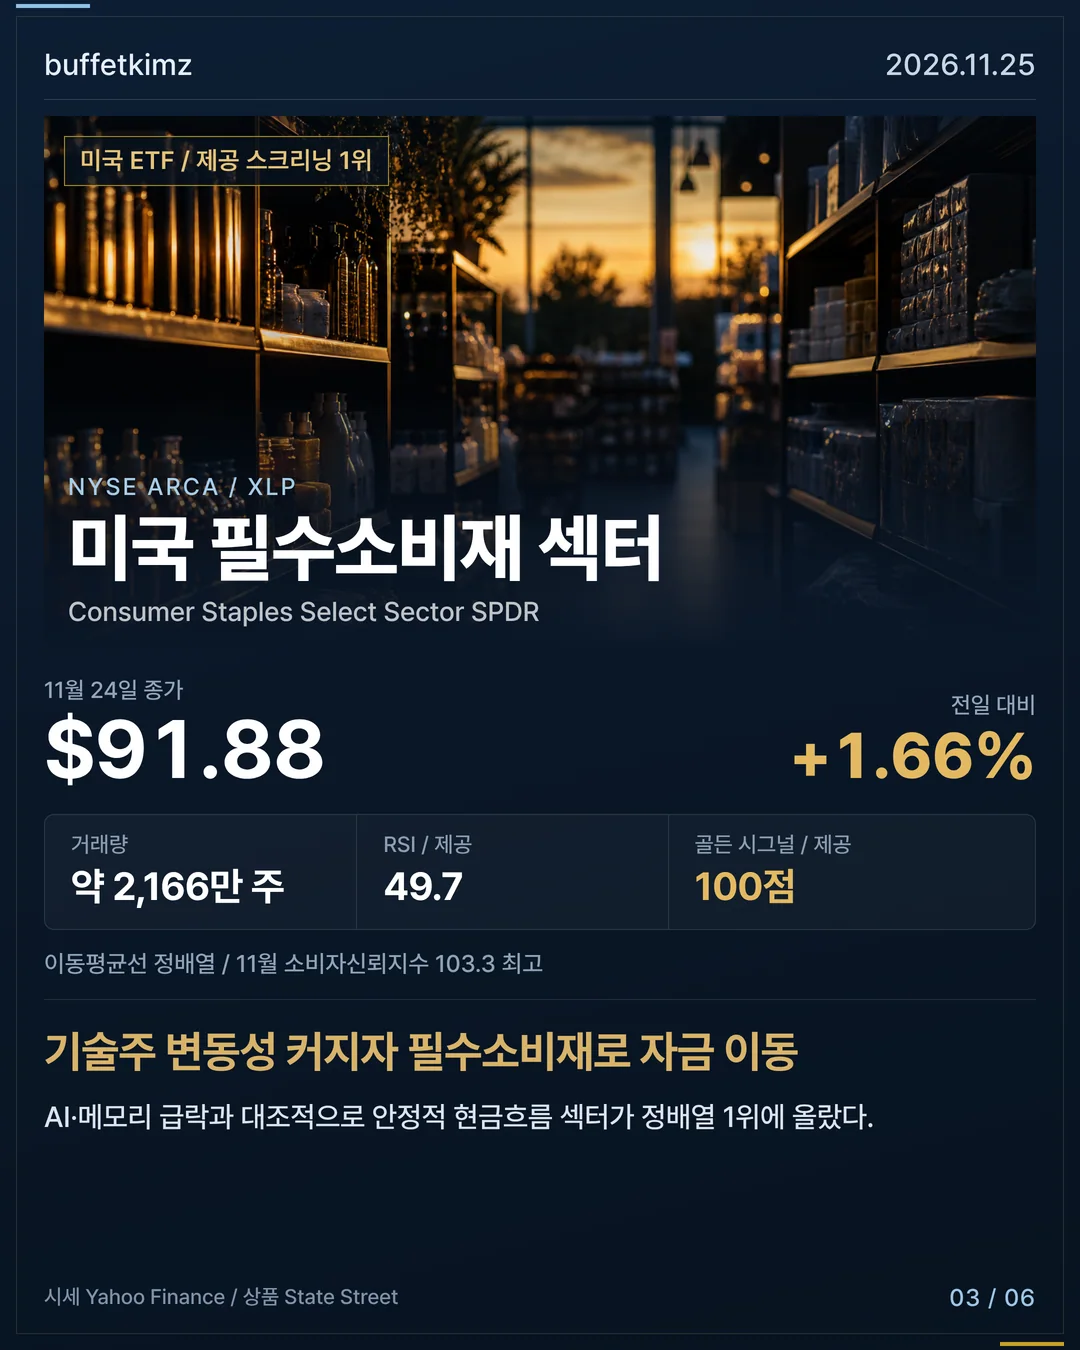
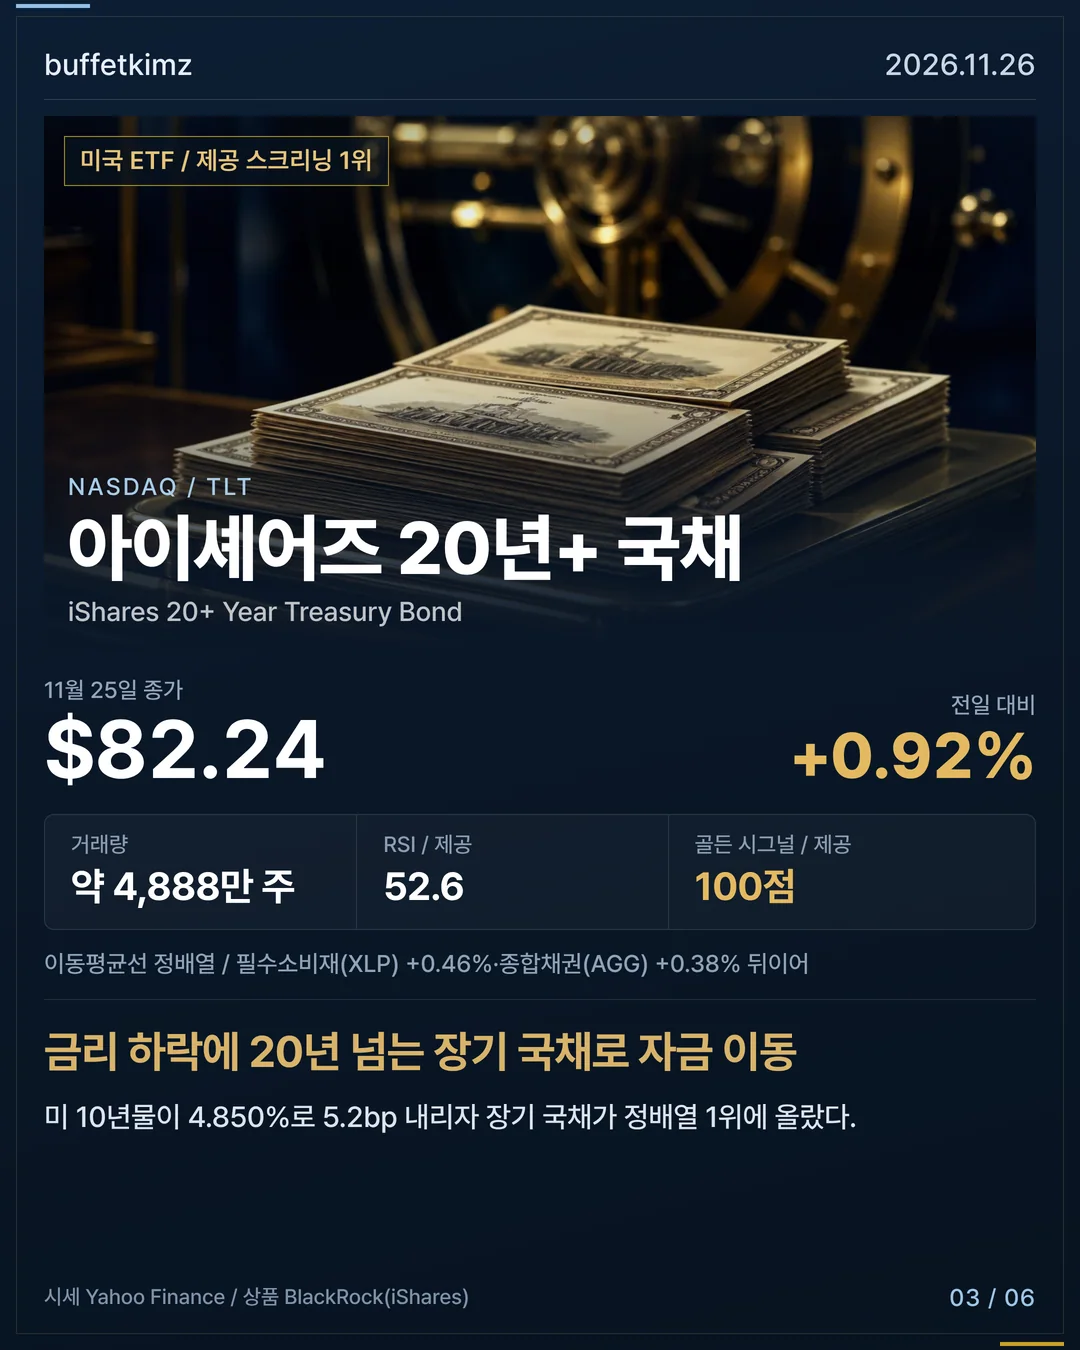
feat(gallery): 4대 시장 퀀트 스크리닝 카드뉴스 갱신 (11/26)

diff --git a/src/data/gallery.ts b/src/data/gallery.ts
@@ -106,23 +106,23 @@ export const galleryItems: GalleryItem[] = [
   /* quant-screening-daily:BEGIN — render_quant_cards.mjs --gallery가 매일 이 블록만 새로 씁니다 */
   {
     id: "quant-screening-daily",
-    title: "4대 시장 퀀트 스크리닝 (11/25)",
+    title: "4대 시장 퀀트 스크리닝 (11/26)",
     tagline: "골든 시그널로 본 4종목",
     summary:
-      "미국 주식·미국 ETF·국내 주식·국내 ETF 네 시장을 같은 기준(이동평균선 정배열·RSI·거래량)으로 훑은 2026. 11. 25 기준 결과입니다. 시장별 1위 4종목과 개장 전 체크포인트 3가지를 6장에 담았습니다.",
+      "미국 주식·미국 ETF·국내 주식·국내 ETF 네 시장을 같은 기준(이동평균선 정배열·RSI·거래량)으로 훑은 2026. 11. 26 기준 결과입니다. 시장별 1위 4종목과 개장 전 체크포인트 3가지를 6장에 담았습니다.",
     category: "cardnews",
-    createdAt: "2026-11-25",
+    createdAt: "2026-11-26",
     tags: ["퀀트 스크리닝", "골든 시그널", "미국 주식", "국내 주식", "ETF"],
     slides: [
-      { src: "/gallery/quant-screening-daily/01.webp", width: 1080, height: 1350, alt: "표지 — 4대 시장 퀀트 스크리닝, 미국 주식 CMCSA·미국 ETF XLP·국내 주식 하나금융지주·국내 ETF KODEX 은행", caption: "표지 — 골든 시그널로 본 4종목" },
-      { src: "/gallery/quant-screening-daily/02.webp", width: 1080, height: 1350, alt: "미국 주식 / 제공 스크리닝 1위 — 컴캐스트 $25.38 (+2.67%), 거래량 약 2,675만 주, RSI / 제공 56.7, 골든 시그널 / 제공 100점", caption: "미국 주식 1위 — 컴캐스트 $25.38 (+2.67%)" },
-      { src: "/gallery/quant-screening-daily/03.webp", width: 1080, height: 1350, alt: "미국 ETF / 제공 스크리닝 1위 — 미국 필수소비재 섹터 $91.88 (+1.66%), 거래량 약 2,166만 주, RSI / 제공 49.7, 골든 시그널 / 제공 100점", caption: "미국 ETF 1위 — 미국 필수소비재 섹터 $91.88 (+1.66%)" },
-      { src: "/gallery/quant-screening-daily/04.webp", width: 1080, height: 1350, alt: "국내 주식 / 제공 스크리닝 1위 — 하나금융지주 123,100원 (+4.94%), 거래량 약 67.8만 주, RSI / 제공 58.7, 골든 시그널 / 제공 100점", caption: "국내 주식 1위 — 하나금융지주 123,100원 (+4.94%)" },
-      { src: "/gallery/quant-screening-daily/05.webp", width: 1080, height: 1350, alt: "국내 ETF / 제공 스크리닝 1위 — KODEX 은행 14,420원 (+3.93%), 거래량 약 29.8만 주, RSI / 제공 55.4, 골든 시그널 / 제공 100점", caption: "국내 ETF 1위 — KODEX 은행 14,420원 (+3.93%)" },
-      { src: "/gallery/quant-screening-daily/06.webp", width: 1080, height: 1350, alt: "개장 전, 세 가지 체크포인트 — 미국장 다우 +0.85% / 나스닥 -1.48% / SOX -7.88%, 개장 전 시그널 코스피200 야간선물 742.60 (-4.56%), 환율·대외 변수 역외 원/달러 약 1,340.9원 / MSCI 한국 -3.7%", caption: "마무리 — 개장 전 체크포인트 3" },
+      { src: "/gallery/quant-screening-daily/01.webp", width: 1080, height: 1350, alt: "표지 — 4대 시장 퀀트 스크리닝, 미국 주식 홈디포·미국 ETF TLT·국내 주식 유한양행·국내 ETF KODEX 인버스2X", caption: "표지 — 골든 시그널로 본 4종목" },
+      { src: "/gallery/quant-screening-daily/02.webp", width: 1080, height: 1350, alt: "미국 주식 / 제공 스크리닝 1위 — 홈디포 $361.26 (+2.14%), 거래량 약 667만 주, RSI / 제공 59.6, 골든 시그널 / 제공 100점", caption: "미국 주식 1위 — 홈디포 $361.26 (+2.14%)" },
+      { src: "/gallery/quant-screening-daily/03.webp", width: 1080, height: 1350, alt: "미국 ETF / 제공 스크리닝 1위 — 아이셰어즈 20년+ 국채 $82.24 (+0.92%), 거래량 약 4,888만 주, RSI / 제공 52.6, 골든 시그널 / 제공 100점", caption: "미국 ETF 1위 — 아이셰어즈 20년+ 국채 $82.24 (+0.92%)" },
+      { src: "/gallery/quant-screening-daily/04.webp", width: 1080, height: 1350, alt: "국내 주식 / 제공 스크리닝 1위 — 유한양행 83,500원 (+8.02%), 거래량 약 36.8만 주, RSI / 제공 51.6, 골든 시그널 / 제공 100점", caption: "국내 주식 1위 — 유한양행 83,500원 (+8.02%)" },
+      { src: "/gallery/quant-screening-daily/05.webp", width: 1080, height: 1350, alt: "국내 ETF / 제공 스크리닝 1위 — KODEX 200선물인버스2X 138원 (+14.05%), 거래량 약 78.1억 주, RSI / 제공 61.0, 골든 시그널 / 제공 100점", caption: "국내 ETF 1위 — KODEX 200선물인버스2X 138원 (+14.05%)" },
+      { src: "/gallery/quant-screening-daily/06.webp", width: 1080, height: 1350, alt: "개장 전, 세 가지 체크포인트 — 미국장 S&P500 7,182.73 (-0.25%) / 나스닥 -0.64% / 다우 +0.31%, 개장 전 시그널 NXT 프리마켓 삼성전자 +1.23% / SK하이닉스 +2.43%, 환율·제도 원/달러 1,343.40원 / 오늘 10시 한은 금통위", caption: "마무리 — 개장 전 체크포인트 3" },
     ],
     basis:
-      "기준 2026. 11. 25 08:20 · 시세 Yahoo Finance·KRX / 지수 S&P·Nasdaq / 환율 08:20 기준 · 투자 권유가 아닌 기록입니다",
+      "기준 2026. 11. 26 08:20 · 시세 Yahoo Finance·KRX / 지수 S&P·Nasdaq / 환율 08:20 기준 · 투자 권유가 아닌 기록입니다",
     related: [{ label: "오늘의 시장 확인 — 데일리 브리프", href: "/board/" }],
   },
   /* quant-screening-daily:END */
